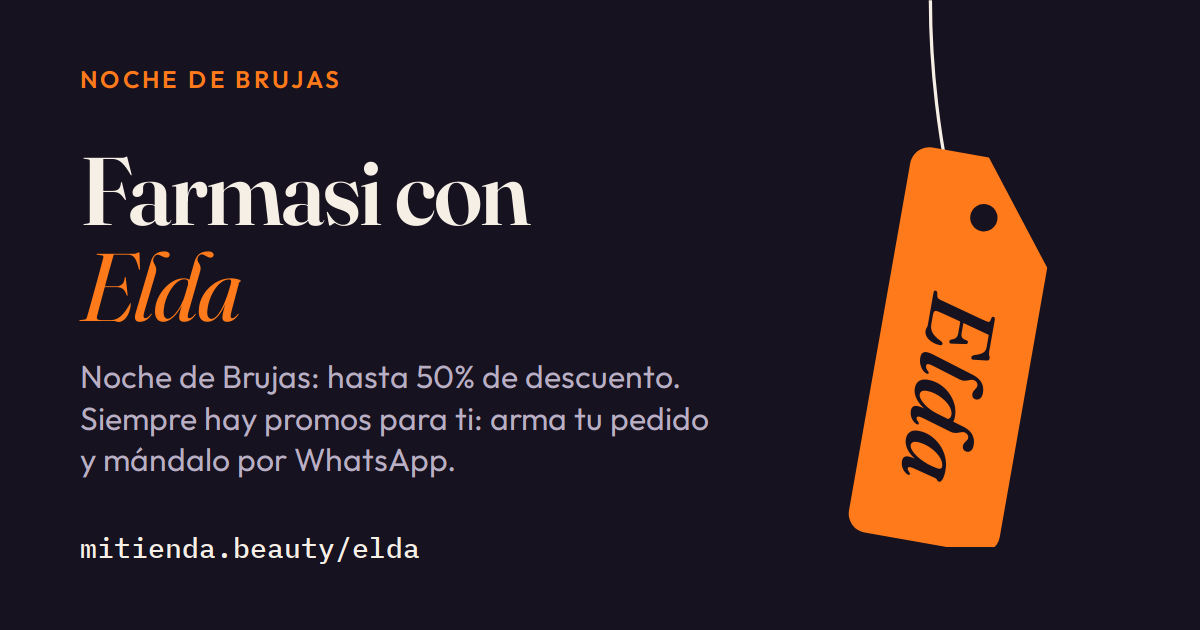
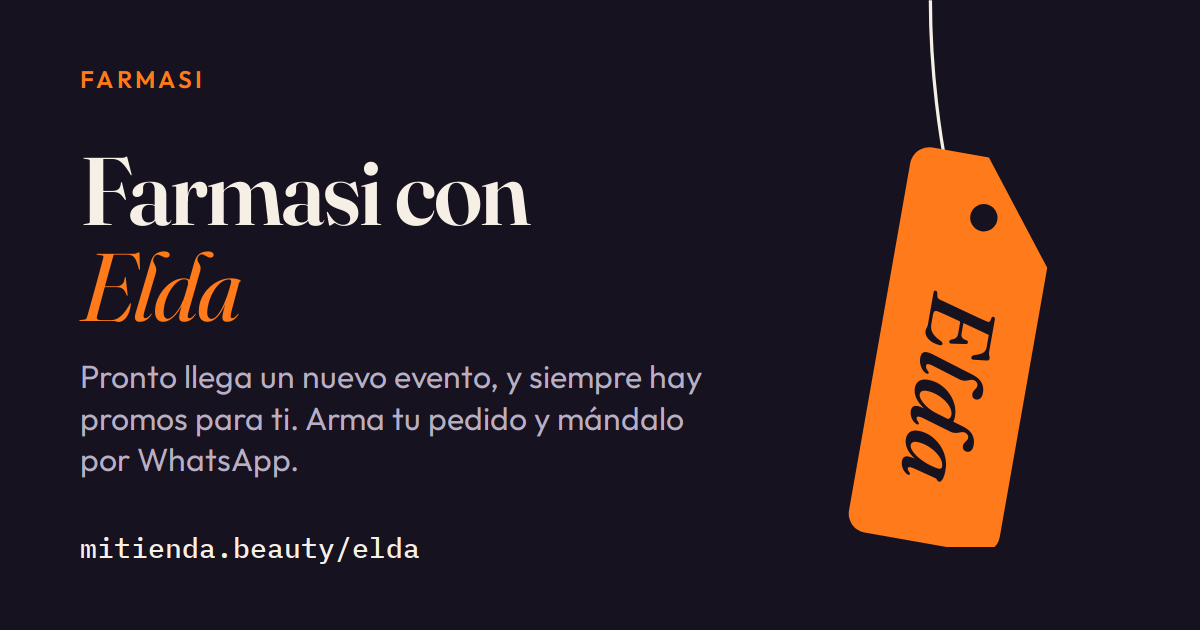
Vistas previas actualizadas (automático)

Changed region(s): [[0.0617, 0.573, 0.5858, 0.754], [0.0617, 0.0905, 0.2775, 0.1508]]

diff --git a/anaofelia/index.html b/anaofelia/index.html
@@ -10,15 +10,15 @@
 <title>Farmasi con Ana Ofelia</title>
 <meta name="description" content="Venta especial de maquillaje con Ana Ofelia. Elige tus productos y manda tu pedido por WhatsApp.">
 <meta property="og:title" content="Farmasi con Ana Ofelia">
-<meta property="og:description" content="Noche de Brujas: hasta 50% de descuento. Siempre hay promos para ti: arma tu pedido y mándalo por WhatsApp.">
+<meta property="og:description" content="Pronto llega un nuevo evento, y siempre hay promos para ti. Arma tu pedido y mándalo por WhatsApp.">
 <meta property="og:type" content="website">
 <meta property="og:locale" content="es_MX">
 <meta property="og:url" content="https://mitienda.beauty/anaofelia/">
-<meta property="og:image" content="https://mitienda.beauty/og/anaofelia.png?v=e425c78c">
+<meta property="og:image" content="https://mitienda.beauty/og/anaofelia.png?v=18e5b1cf">
 <meta property="og:image:width" content="1200">
 <meta property="og:image:height" content="630">
 <meta name="twitter:card" content="summary_large_image">
-<meta name="twitter:image" content="https://mitienda.beauty/og/anaofelia.png?v=e425c78c">
+<meta name="twitter:image" content="https://mitienda.beauty/og/anaofelia.png?v=18e5b1cf">
 <link rel="preconnect" href="https://fonts.googleapis.com">
 <link rel="preconnect" href="https://fonts.gstatic.com" crossorigin>
 <link href="https://fonts.googleapis.com/css2?family=IBM+Plex+Mono:wght@400;500;700&family=Outfit:wght@300;400;500;600;700;800&display=swap" rel="stylesheet">

diff --git a/anagomez/index.html b/anagomez/index.html
@@ -10,15 +10,15 @@
 <title>Farmasi con Ana Gómez</title>
 <meta name="description" content="Venta especial de maquillaje con Ana Gómez. Elige tus productos y manda tu pedido por WhatsApp.">
 <meta property="og:title" content="Farmasi con Ana Gómez">
-<meta property="og:description" content="Noche de Brujas: hasta 50% de descuento. Siempre hay promos para ti: arma tu pedido y mándalo por WhatsApp.">
+<meta property="og:description" content="Pronto llega un nuevo evento, y siempre hay promos para ti. Arma tu pedido y mándalo por WhatsApp.">
 <meta property="og:type" content="website">
 <meta property="og:locale" content="es_MX">
 <meta property="og:url" content="https://mitienda.beauty/anagomez/">
-<meta property="og:image" content="https://mitienda.beauty/og/anagomez.png?v=e93443c1">
+<meta property="og:image" content="https://mitienda.beauty/og/anagomez.png?v=274a45ca">
 <meta property="og:image:width" content="1200">
 <meta property="og:image:height" content="630">
 <meta name="twitter:card" content="summary_large_image">
-<meta name="twitter:image" content="https://mitienda.beauty/og/anagomez.png?v=e93443c1">
+<meta name="twitter:image" content="https://mitienda.beauty/og/anagomez.png?v=274a45ca">
 <link rel="preconnect" href="https://fonts.googleapis.com">
 <link rel="preconnect" href="https://fonts.gstatic.com" crossorigin>
 <link href="https://fonts.googleapis.com/css2?family=IBM+Plex+Mono:wght@400;500;700&family=Outfit:wght@300;400;500;600;700;800&display=swap" rel="stylesheet">

diff --git a/andrea/index.html b/andrea/index.html
@@ -10,15 +10,15 @@
 <title>Farmasi con Andrea</title>
 <meta name="description" content="Venta especial de maquillaje con Andrea. Elige tus productos y manda tu pedido por WhatsApp.">
 <meta property="og:title" content="Farmasi con Andrea">
-<meta property="og:description" content="Noche de Brujas: hasta 50% de descuento. Siempre hay promos para ti: arma tu pedido y mándalo por WhatsApp.">
+<meta property="og:description" content="Pronto llega un nuevo evento, y siempre hay promos para ti. Arma tu pedido y mándalo por WhatsApp.">
 <meta property="og:type" content="website">
 <meta property="og:locale" content="es_MX">
 <meta property="og:url" content="https://mitienda.beauty/andrea/">
-<meta property="og:image" content="https://mitienda.beauty/og/andrea.png?v=cc70fd8a">
+<meta property="og:image" content="https://mitienda.beauty/og/andrea.png?v=1a6fd245">
 <meta property="og:image:width" content="1200">
 <meta property="og:image:height" content="630">
 <meta name="twitter:card" content="summary_large_image">
-<meta name="twitter:image" content="https://mitienda.beauty/og/andrea.png?v=cc70fd8a">
+<meta name="twitter:image" content="https://mitienda.beauty/og/andrea.png?v=1a6fd245">
 <link rel="preconnect" href="https://fonts.googleapis.com">
 <link rel="preconnect" href="https://fonts.gstatic.com" crossorigin>
 <link href="https://fonts.googleapis.com/css2?family=IBM+Plex+Mono:wght@400;500;700&family=Outfit:wght@300;400;500;600;700;800&display=swap" rel="stylesheet">

diff --git a/silvia/index.html b/silvia/index.html
@@ -10,15 +10,15 @@
 <title>Farmasi con Silvia</title>
 <meta name="description" content="Venta especial de maquillaje con Silvia. Elige tus productos y manda tu pedido por WhatsApp.">
 <meta property="og:title" content="Farmasi con Silvia">
-<meta property="og:description" content="Noche de Brujas: hasta 50% de descuento. Siempre hay promos para ti: arma tu pedido y mándalo por WhatsApp.">
+<meta property="og:description" content="Pronto llega un nuevo evento, y siempre hay promos para ti. Arma tu pedido y mándalo por WhatsApp.">
 <meta property="og:type" content="website">
 <meta property="og:locale" content="es_MX">
 <meta property="og:url" content="https://mitienda.beauty/silvia/">
-<meta property="og:image" content="https://mitienda.beauty/og/silvia.png?v=111b4799">
+<meta property="og:image" content="https://mitienda.beauty/og/silvia.png?v=118b1aa2">
 <meta property="og:image:width" content="1200">
 <meta property="og:image:height" content="630">
 <meta name="twitter:card" content="summary_large_image">
-<meta name="twitter:image" content="https://mitienda.beauty/og/silvia.png?v=111b4799">
+<meta name="twitter:image" content="https://mitienda.beauty/og/silvia.png?v=118b1aa2">
 <link rel="preconnect" href="https://fonts.googleapis.com">
 <link rel="preconnect" href="https://fonts.gstatic.com" crossorigin>
 <link href="https://fonts.googleapis.com/css2?family=IBM+Plex+Mono:wght@400;500;700&family=Outfit:wght@300;400;500;600;700;800&display=swap" rel="stylesheet">

diff --git a/yazmin/index.html b/yazmin/index.html
@@ -10,15 +10,15 @@
 <title>Farmasi con Yazmin</title>
 <meta name="description" content="Venta especial de maquillaje con Yazmin. Elige tus productos y manda tu pedido por WhatsApp.">
 <meta property="og:title" content="Farmasi con Yazmin">
-<meta property="og:description" content="Noche de Brujas: hasta 50% de descuento. Siempre hay promos para ti: arma tu pedido y mándalo por WhatsApp.">
+<meta property="og:description" content="Pronto llega un nuevo evento, y siempre hay promos para ti. Arma tu pedido y mándalo por WhatsApp.">
 <meta property="og:type" content="website">
 <meta property="og:locale" content="es_MX">
 <meta property="og:url" content="https://mitienda.beauty/yazmin/">
-<meta property="og:image" content="https://mitienda.beauty/og/yazmin.png?v=68a32378">
+<meta property="og:image" content="https://mitienda.beauty/og/yazmin.png?v=86b86b9c">
 <meta property="og:image:width" content="1200">
 <meta property="og:image:height" content="630">
 <meta name="twitter:card" content="summary_large_image">
-<meta name="twitter:image" content="https://mitienda.beauty/og/yazmin.png?v=68a32378">
+<meta name="twitter:image" content="https://mitienda.beauty/og/yazmin.png?v=86b86b9c">
 <link rel="preconnect" href="https://fonts.googleapis.com">
 <link rel="preconnect" href="https://fonts.gstatic.com" crossorigin>
 <link href="https://fonts.googleapis.com/css2?family=IBM+Plex+Mono:wght@400;500;700&family=Outfit:wght@300;400;500;600;700;800&display=swap" rel="stylesheet">

diff --git a/danny/index.html b/danny/index.html
@@ -10,15 +10,15 @@
 <title>Farmasi con Danny</title>
 <meta name="description" content="Venta especial de maquillaje con Danny. Elige tus productos y manda tu pedido por WhatsApp.">
 <meta property="og:title" content="Farmasi con Danny">
-<meta property="og:description" content="Noche de Brujas: hasta 50% de descuento. Siempre hay promos para ti: arma tu pedido y mándalo por WhatsApp.">
+<meta property="og:description" content="Pronto llega un nuevo evento, y siempre hay promos para ti. Arma tu pedido y mándalo por WhatsApp.">
 <meta property="og:type" content="website">
 <meta property="og:locale" content="es_MX">
 <meta property="og:url" content="https://mitienda.beauty/danny/">
-<meta property="og:image" content="https://mitienda.beauty/og/danny.png?v=e26d2204">
+<meta property="og:image" content="https://mitienda.beauty/og/danny.png?v=822e357e">
 <meta property="og:image:width" content="1200">
 <meta property="og:image:height" content="630">
 <meta name="twitter:card" content="summary_large_image">
-<meta name="twitter:image" content="https://mitienda.beauty/og/danny.png?v=e26d2204">
+<meta name="twitter:image" content="https://mitienda.beauty/og/danny.png?v=822e357e">
 <link rel="preconnect" href="https://fonts.googleapis.com">
 <link rel="preconnect" href="https://fonts.gstatic.com" crossorigin>
 <link href="https://fonts.googleapis.com/css2?family=IBM+Plex+Mono:wght@400;500;700&family=Outfit:wght@300;400;500;600;700;800&display=swap" rel="stylesheet">

diff --git a/laura/index.html b/laura/index.html
@@ -10,15 +10,15 @@
 <title>Farmasi con Laura</title>
 <meta name="description" content="Venta especial de maquillaje con Laura. Elige tus productos y manda tu pedido por WhatsApp.">
 <meta property="og:title" content="Farmasi con Laura">
-<meta property="og:description" content="Noche de Brujas: hasta 50% de descuento. Siempre hay promos para ti: arma tu pedido y mándalo por WhatsApp.">
+<meta property="og:description" content="Pronto llega un nuevo evento, y siempre hay promos para ti. Arma tu pedido y mándalo por WhatsApp.">
 <meta property="og:type" content="website">
 <meta property="og:locale" content="es_MX">
 <meta property="og:url" content="https://mitienda.beauty/laura/">
-<meta property="og:image" content="https://mitienda.beauty/og/laura.png?v=ab9d077b">
+<meta property="og:image" content="https://mitienda.beauty/og/laura.png?v=96d5461c">
 <meta property="og:image:width" content="1200">
 <meta property="og:image:height" content="630">
 <meta name="twitter:card" content="summary_large_image">
-<meta name="twitter:image" content="https://mitienda.beauty/og/laura.png?v=ab9d077b">
+<meta name="twitter:image" content="https://mitienda.beauty/og/laura.png?v=96d5461c">
 <link rel="preconnect" href="https://fonts.googleapis.com">
 <link rel="preconnect" href="https://fonts.gstatic.com" crossorigin>
 <link href="https://fonts.googleapis.com/css2?family=IBM+Plex+Mono:wght@400;500;700&family=Outfit:wght@300;400;500;600;700;800&display=swap" rel="stylesheet">

diff --git a/nancy/index.html b/nancy/index.html
@@ -10,15 +10,15 @@
 <title>Farmasi con Nancy</title>
 <meta name="description" content="Venta especial de maquillaje con Nancy. Elige tus productos y manda tu pedido por WhatsApp.">
 <meta property="og:title" content="Farmasi con Nancy">
-<meta property="og:description" content="Noche de Brujas: hasta 50% de descuento. Siempre hay promos para ti: arma tu pedido y mándalo por WhatsApp.">
+<meta property="og:description" content="Pronto llega un nuevo evento, y siempre hay promos para ti. Arma tu pedido y mándalo por WhatsApp.">
 <meta property="og:type" content="website">
 <meta property="og:locale" content="es_MX">
 <meta property="og:url" content="https://mitienda.beauty/nancy/">
-<meta property="og:image" content="https://mitienda.beauty/og/nancy.png?v=a1fd1c16">
+<meta property="og:image" content="https://mitienda.beauty/og/nancy.png?v=48c9abd7">
 <meta property="og:image:width" content="1200">
 <meta property="og:image:height" content="630">
 <meta name="twitter:card" content="summary_large_image">
-<meta name="twitter:image" content="https://mitienda.beauty/og/nancy.png?v=a1fd1c16">
+<meta name="twitter:image" content="https://mitienda.beauty/og/nancy.png?v=48c9abd7">
 <link rel="preconnect" href="https://fonts.googleapis.com">
 <link rel="preconnect" href="https://fonts.gstatic.com" crossorigin>
 <link href="https://fonts.googleapis.com/css2?family=IBM+Plex+Mono:wght@400;500;700&family=Outfit:wght@300;400;500;600;700;800&display=swap" rel="stylesheet">

diff --git a/sebas/index.html b/sebas/index.html
@@ -10,15 +10,15 @@
 <title>Farmasi con Sebas</title>
 <meta name="description" content="Venta especial de maquillaje con Sebas. Elige tus productos y manda tu pedido por WhatsApp.">
 <meta property="og:title" content="Farmasi con Sebas">
-<meta property="og:description" content="Noche de Brujas: hasta 50% de descuento. Siempre hay promos para ti: arma tu pedido y mándalo por WhatsApp.">
+<meta property="og:description" content="Pronto llega un nuevo evento, y siempre hay promos para ti. Arma tu pedido y mándalo por WhatsApp.">
 <meta property="og:type" content="website">
 <meta property="og:locale" content="es_MX">
 <meta property="og:url" content="https://mitienda.beauty/sebas/">
-<meta property="og:image" content="https://mitienda.beauty/og/sebas.png?v=fc4f5217">
+<meta property="og:image" content="https://mitienda.beauty/og/sebas.png?v=b21b9243">
 <meta property="og:image:width" content="1200">
 <meta property="og:image:height" content="630">
 <meta name="twitter:card" content="summary_large_image">
-<meta name="twitter:image" content="https://mitienda.beauty/og/sebas.png?v=fc4f5217">
+<meta name="twitter:image" content="https://mitienda.beauty/og/sebas.png?v=b21b9243">
 <link rel="preconnect" href="https://fonts.googleapis.com">
 <link rel="preconnect" href="https://fonts.gstatic.com" crossorigin>
 <link href="https://fonts.googleapis.com/css2?family=IBM+Plex+Mono:wght@400;500;700&family=Outfit:wght@300;400;500;600;700;800&display=swap" rel="stylesheet">

diff --git a/sel/index.html b/sel/index.html
@@ -10,15 +10,15 @@
 <title>Farmasi con Selene</title>
 <meta name="description" content="Venta especial de maquillaje con Selene. Elige tus productos y manda tu pedido por WhatsApp.">
 <meta property="og:title" content="Farmasi con Selene">
-<meta property="og:description" content="Noche de Brujas: hasta 50% de descuento. Siempre hay promos para ti: arma tu pedido y mándalo por WhatsApp.">
+<meta property="og:description" content="Pronto llega un nuevo evento, y siempre hay promos para ti. Arma tu pedido y mándalo por WhatsApp.">
 <meta property="og:type" content="website">
 <meta property="og:locale" content="es_MX">
 <meta property="og:url" content="https://mitienda.beauty/sel/">
-<meta property="og:image" content="https://mitienda.beauty/og/sel.png?v=93bb5992">
+<meta property="og:image" content="https://mitienda.beauty/og/sel.png?v=3fce0bff">
 <meta property="og:image:width" content="1200">
 <meta property="og:image:height" content="630">
 <meta name="twitter:card" content="summary_large_image">
-<meta name="twitter:image" content="https://mitienda.beauty/og/sel.png?v=93bb5992">
+<meta name="twitter:image" content="https://mitienda.beauty/og/sel.png?v=3fce0bff">
 <link rel="preconnect" href="https://fonts.googleapis.com">
 <link rel="preconnect" href="https://fonts.gstatic.com" crossorigin>
 <link href="https://fonts.googleapis.com/css2?family=IBM+Plex+Mono:wght@400;500;700&family=Outfit:wght@300;400;500;600;700;800&display=swap" rel="stylesheet">

diff --git a/andi/index.html b/andi/index.html
@@ -10,15 +10,15 @@
 <title>Farmasi con Andi</title>
 <meta name="description" content="Venta especial de maquillaje con Andi. Elige tus productos y manda tu pedido por WhatsApp.">
 <meta property="og:title" content="Farmasi con Andi">
-<meta property="og:description" content="Noche de Brujas: hasta 50% de descuento. Siempre hay promos para ti: arma tu pedido y mándalo por WhatsApp.">
+<meta property="og:description" content="Pronto llega un nuevo evento, y siempre hay promos para ti. Arma tu pedido y mándalo por WhatsApp.">
 <meta property="og:type" content="website">
 <meta property="og:locale" content="es_MX">
 <meta property="og:url" content="https://mitienda.beauty/andi/">
-<meta property="og:image" content="https://mitienda.beauty/og/andi.png?v=c2a188a0">
+<meta property="og:image" content="https://mitienda.beauty/og/andi.png?v=b39bc938">
 <meta property="og:image:width" content="1200">
 <meta property="og:image:height" content="630">
 <meta name="twitter:card" content="summary_large_image">
-<meta name="twitter:image" content="https://mitienda.beauty/og/andi.png?v=c2a188a0">
+<meta name="twitter:image" content="https://mitienda.beauty/og/andi.png?v=b39bc938">
 <link rel="preconnect" href="https://fonts.googleapis.com">
 <link rel="preconnect" href="https://fonts.gstatic.com" crossorigin>
 <link href="https://fonts.googleapis.com/css2?family=IBM+Plex+Mono:wght@400;500;700&family=Outfit:wght@300;400;500;600;700;800&display=swap" rel="stylesheet">

diff --git a/elda/index.html b/elda/index.html
@@ -10,15 +10,15 @@
 <title>Farmasi con Elda</title>
 <meta name="description" content="Venta especial de maquillaje con Elda. Elige tus productos y manda tu pedido por WhatsApp.">
 <meta property="og:title" content="Farmasi con Elda">
-<meta property="og:description" content="Noche de Brujas: hasta 50% de descuento. Siempre hay promos para ti: arma tu pedido y mándalo por WhatsApp.">
+<meta property="og:description" content="Pronto llega un nuevo evento, y siempre hay promos para ti. Arma tu pedido y mándalo por WhatsApp.">
 <meta property="og:type" content="website">
 <meta property="og:locale" content="es_MX">
 <meta property="og:url" content="https://mitienda.beauty/elda/">
-<meta property="og:image" content="https://mitienda.beauty/og/elda.png?v=6c1098dd">
+<meta property="og:image" content="https://mitienda.beauty/og/elda.png?v=02ad6cf5">
 <meta property="og:image:width" content="1200">
 <meta property="og:image:height" content="630">
 <meta name="twitter:card" content="summary_large_image">
-<meta name="twitter:image" content="https://mitienda.beauty/og/elda.png?v=6c1098dd">
+<meta name="twitter:image" content="https://mitienda.beauty/og/elda.png?v=02ad6cf5">
 <link rel="preconnect" href="https://fonts.googleapis.com">
 <link rel="preconnect" href="https://fonts.gstatic.com" crossorigin>
 <link href="https://fonts.googleapis.com/css2?family=IBM+Plex+Mono:wght@400;500;700&family=Outfit:wght@300;400;500;600;700;800&display=swap" rel="stylesheet">
